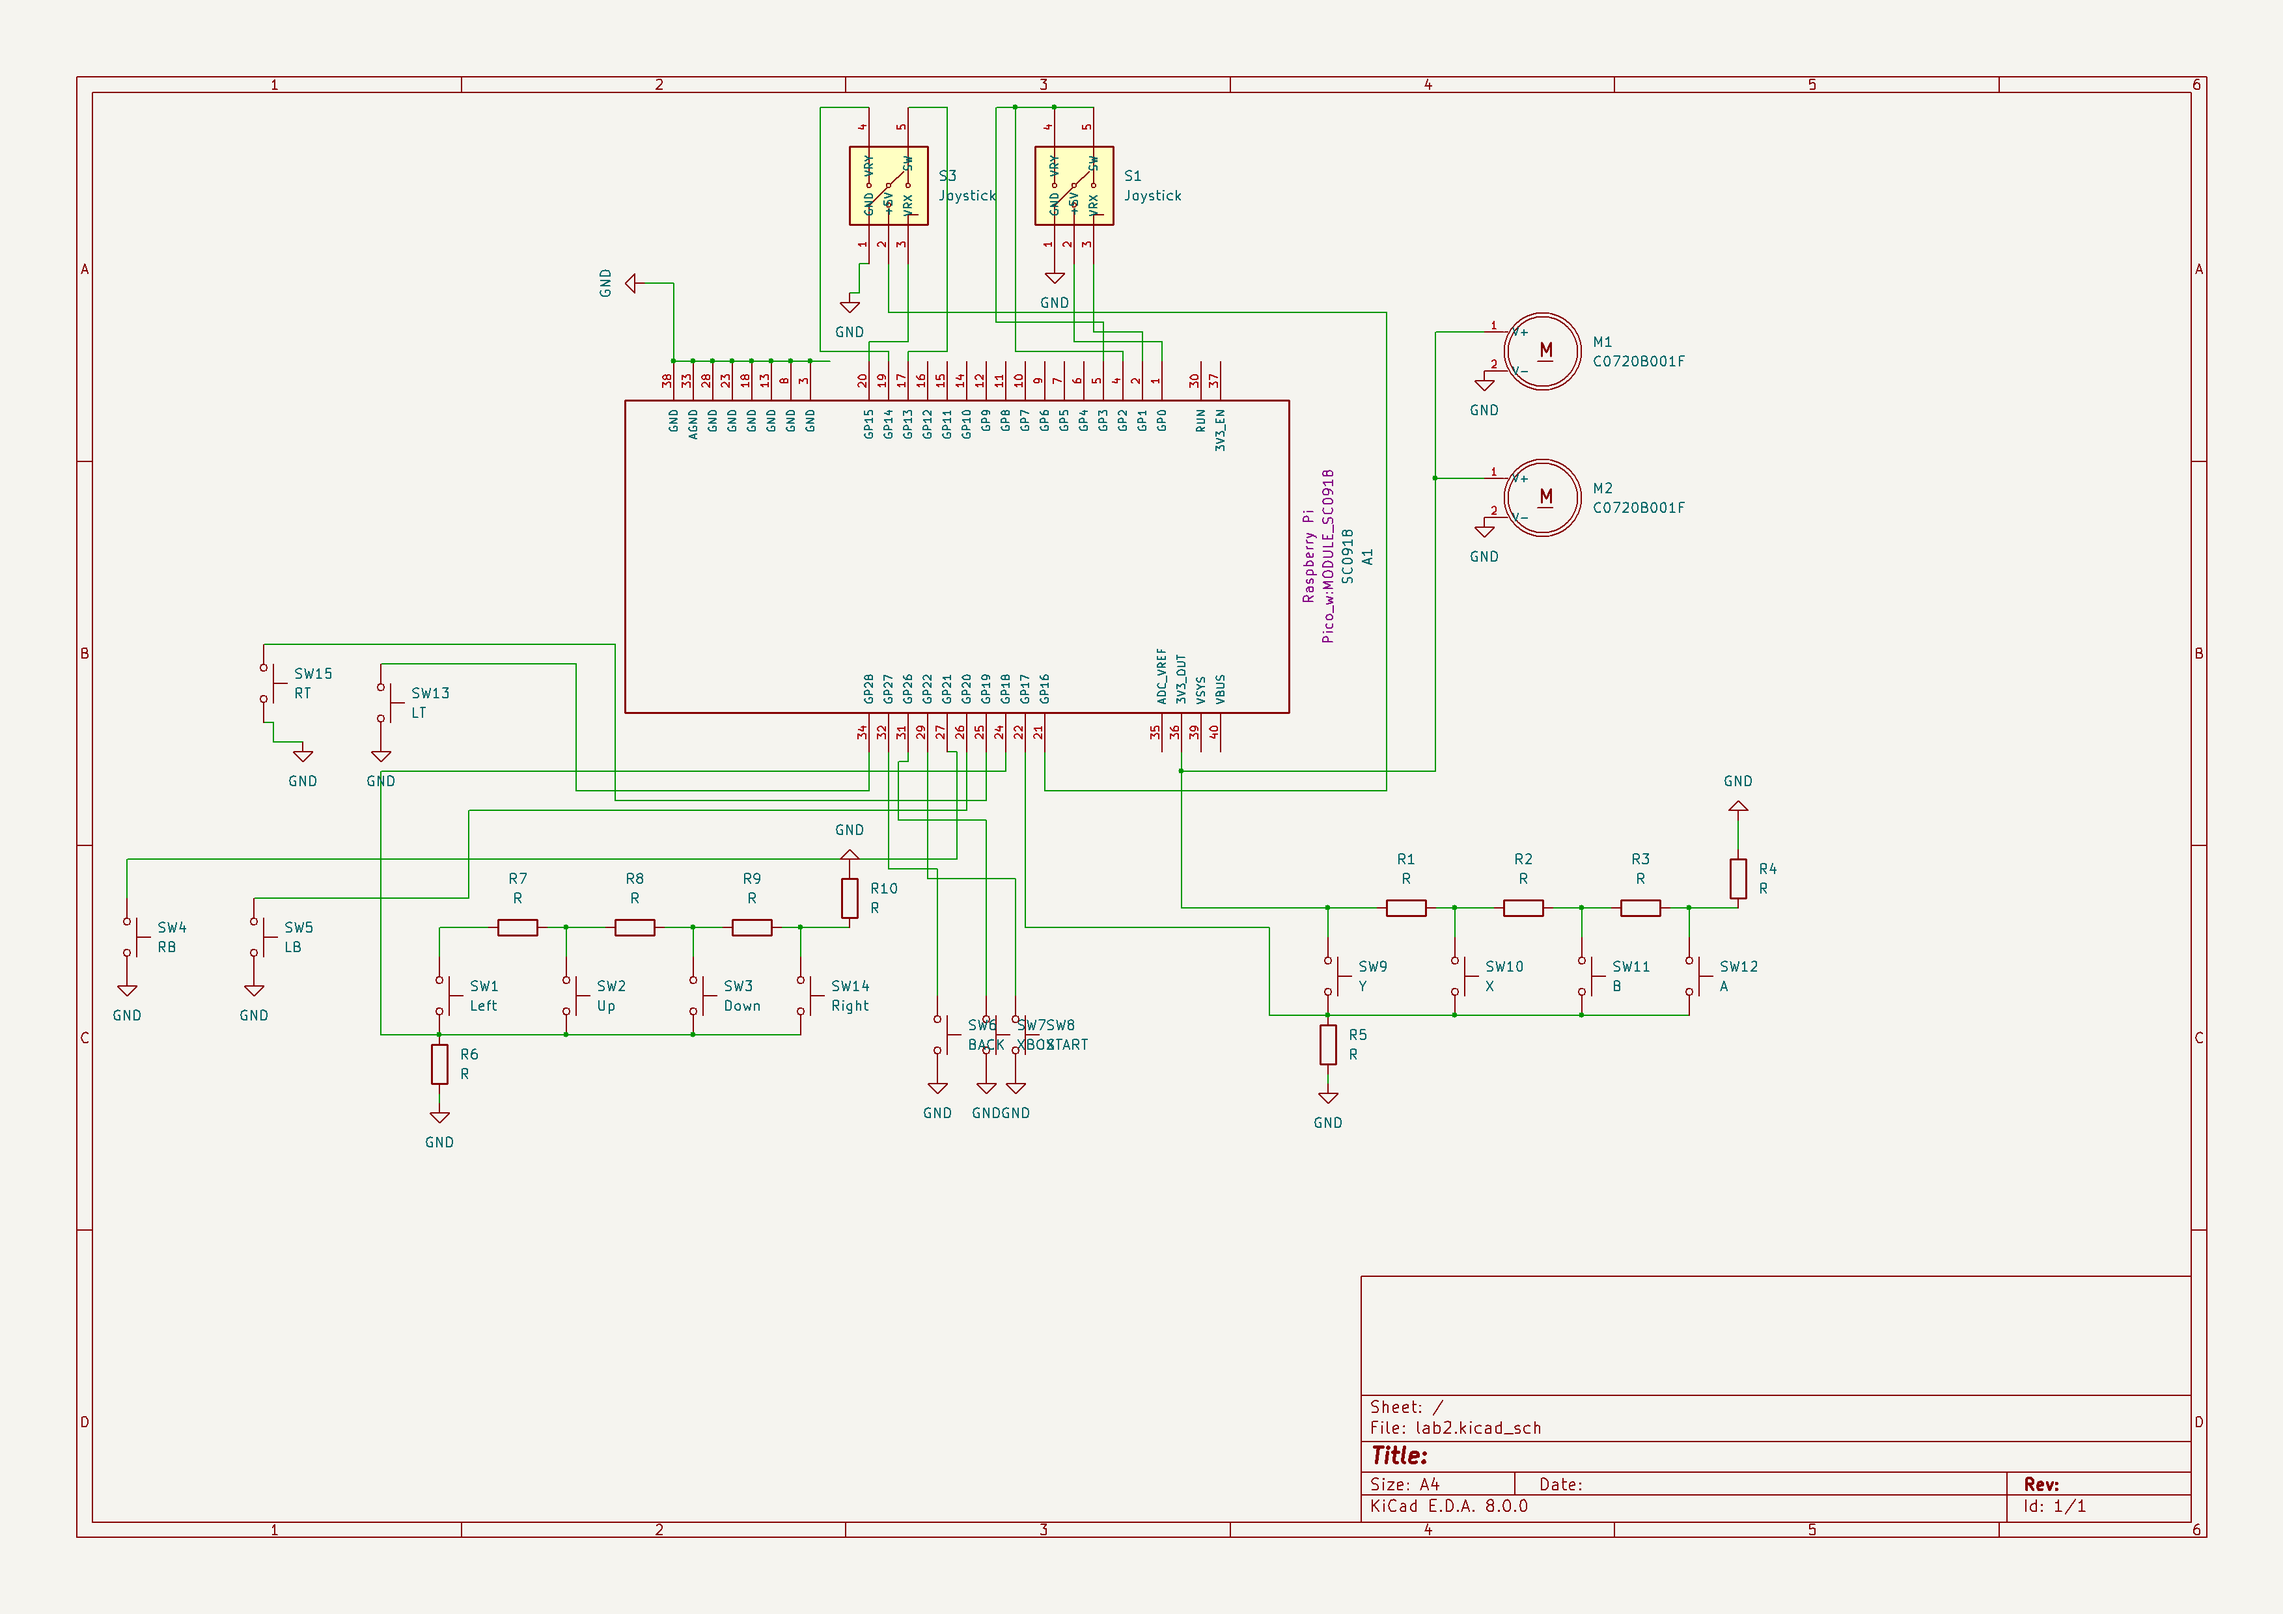
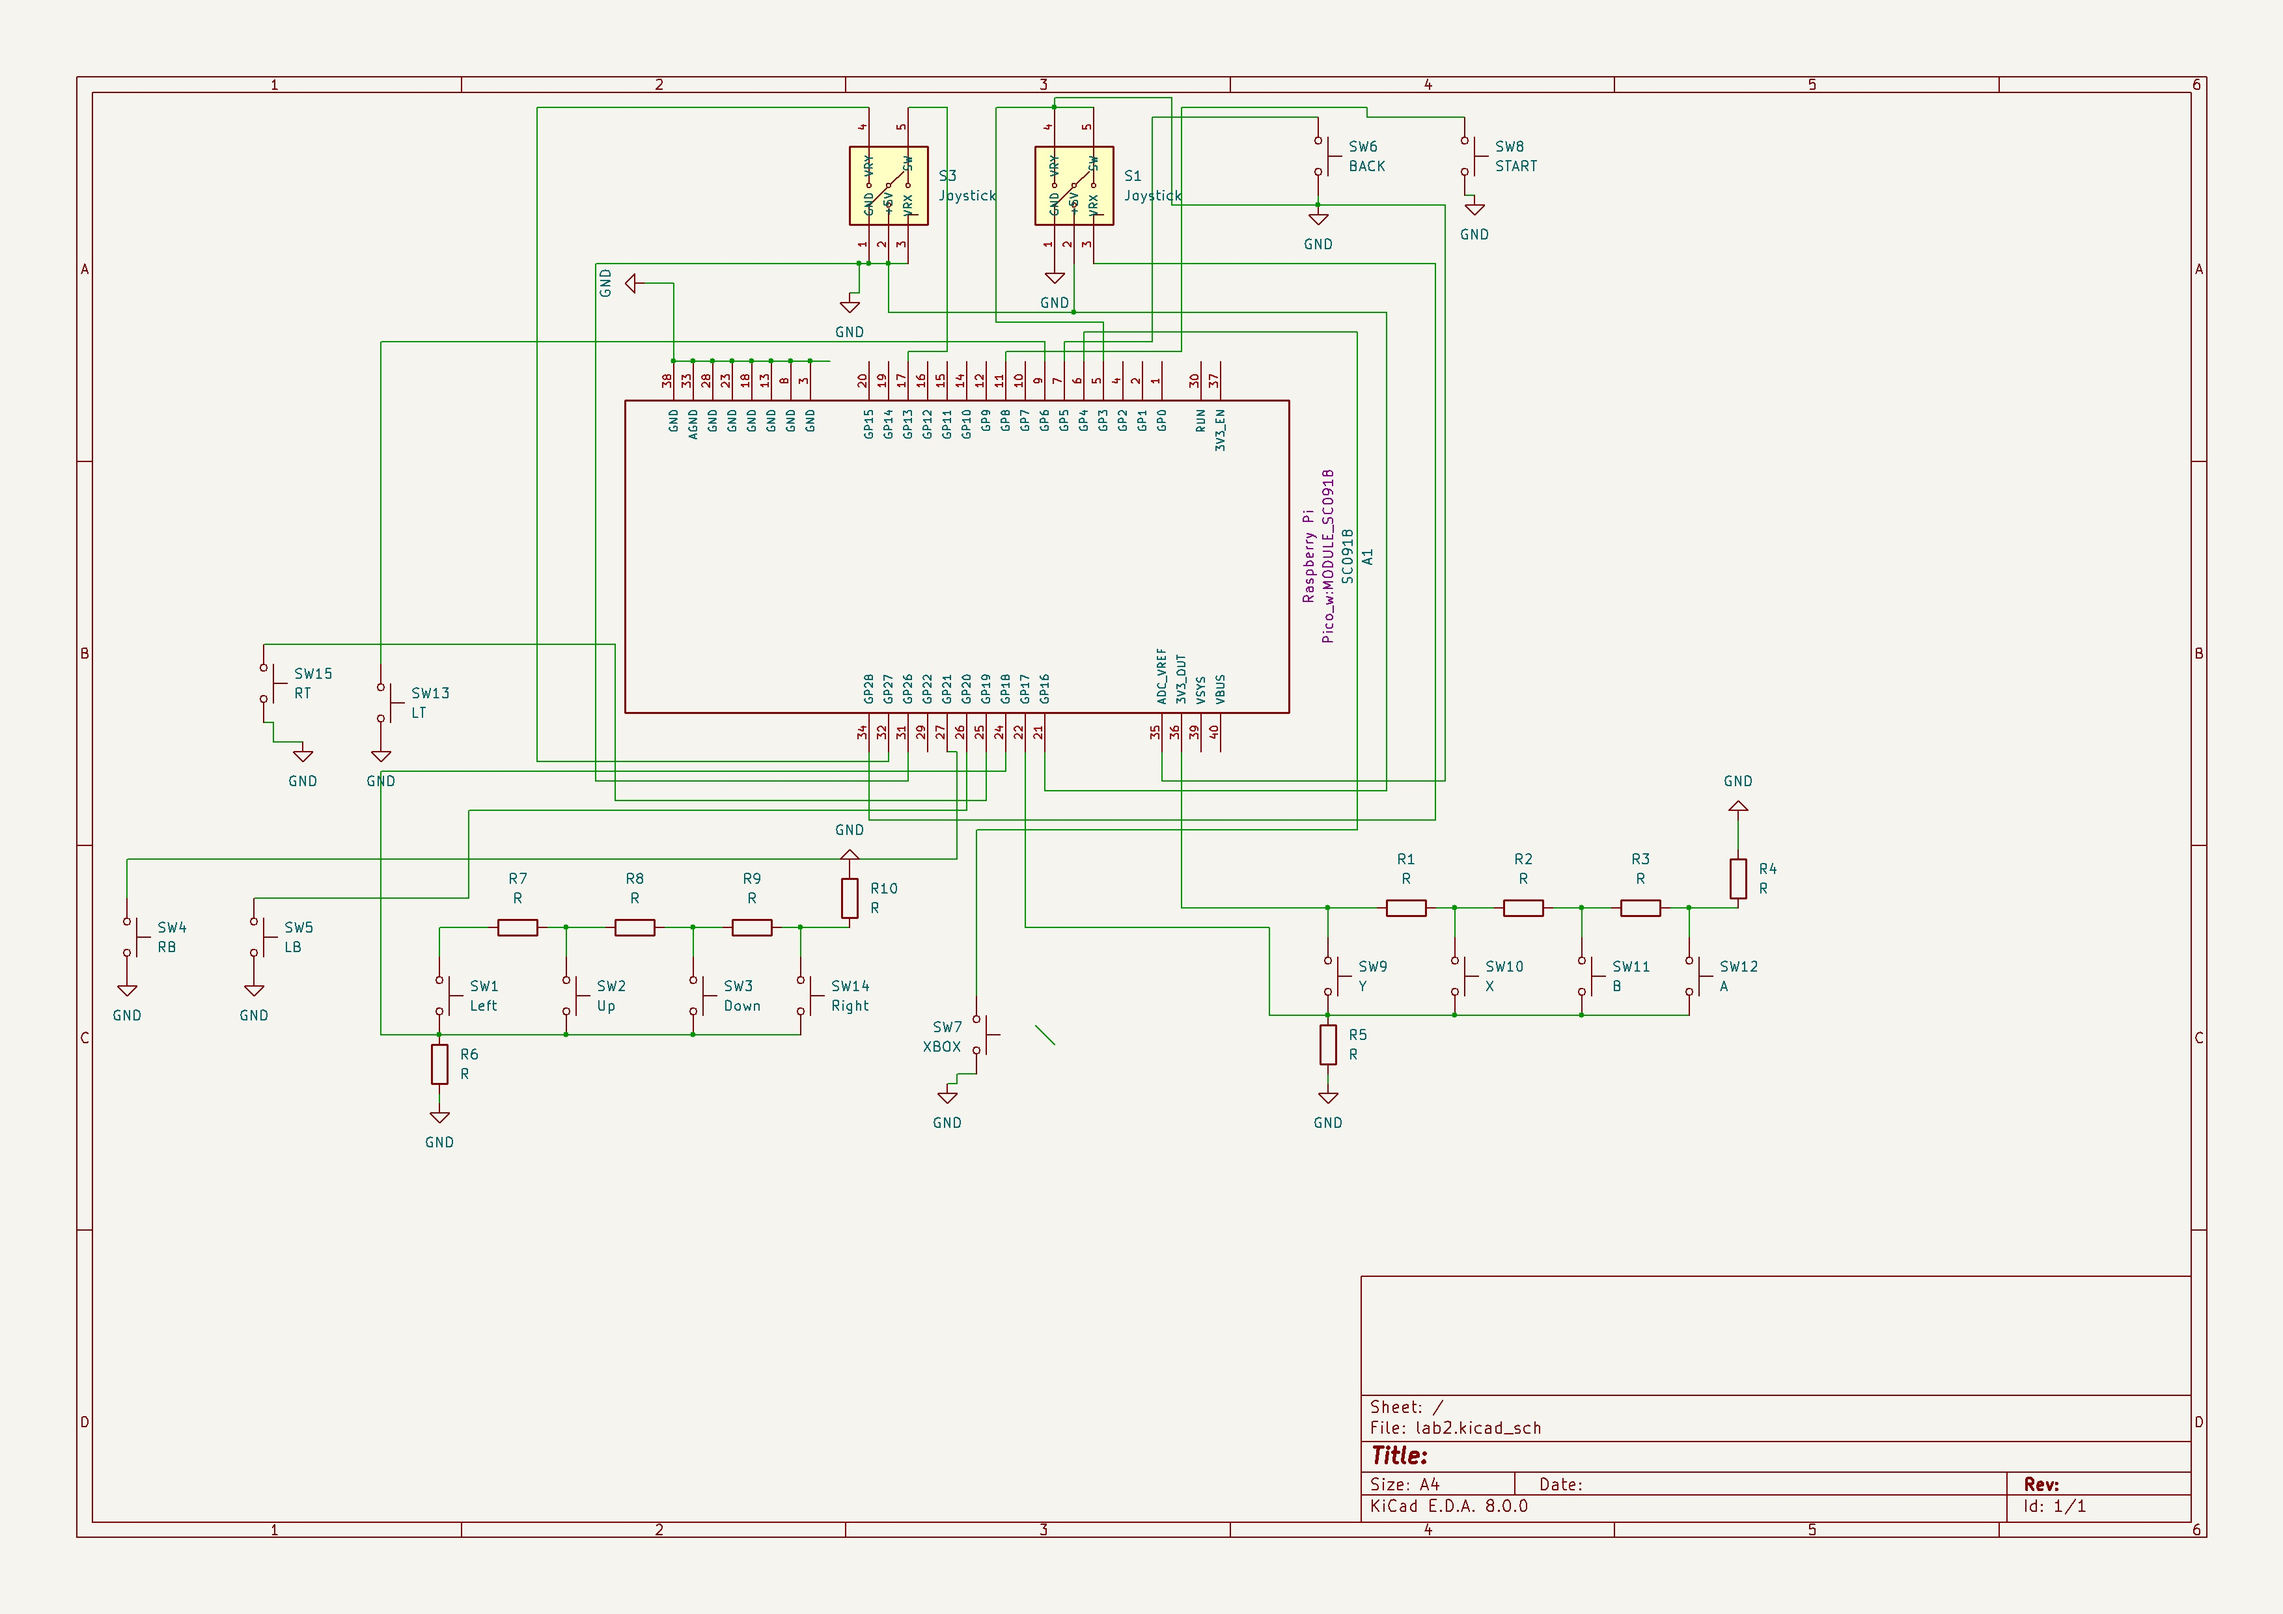
finishing touches + hardware update

diff --git a/docs/project/2024/andrei.dragota/index.md b/docs/project/2024/andrei.dragota/index.md
@@ -86,7 +86,7 @@ Designed the hardware on the breadboard, applied the voltage dividers to the cir
 ### Week 7 - 19 May
 Finished up the hardware on the breadboard + final version on KiCad. Should start with software now.
 ### Week 20 - 26 May
-TBD
+Software is finished. Windows detects the Pico W as a generic xbox 360 controller and responds to inputs. Code is in project repo.
 ## Hardware
 
 The controller has 16 buttons, 2 vibration motors, 2 joysticks, resistances of 220 ohms to not blow up the circuit. Pico will process all the inputs from the buttons and will translate it for the XInput app. 
@@ -132,7 +132,7 @@ The format is
 | Buttons ( 12-15 ) | Input for controller | [5 RON](https://www.optimusdigital.ro/ro/butoane-i-comutatoare/1119-buton-6x6x6.html?search_query=buton&results=222) |
 | Resistances | To not fry the circuit | [5 RON](https://www.optimusdigital.ro/ro/componente-electronice-rezistoare/858-rezistor-025w-18k.html?search_query=rezistor&results=120) |
 | 2x JoySticks | Move and aim with the controller | [10 RON](https://www.optimusdigital.ro/ro/senzori-senzori-de-atingere/742-modul-joystick-ps2-biaxial-negru-cu-5-pini.html?search_query=joystick&results=42) |
-| 2x Vibration Motors | Response from game using Windows API | [5 RON](https://www.optimusdigital.ro/ro/motoare-motoare-cu-vibratii/693-motor-cu-vibratii-a1027.html?gad_source=1&gclid=Cj0KCQjwir2xBhC_ARIsAMTXk87DxwQMGCCtCEbpkpSU_Mpx-jXCLmP0dDQwEzAGgiDgH0d1KsIc7isaAvvcEALw_wcB) |
+
 
 ## Software
 
@@ -141,7 +141,7 @@ The format is
 | [rusty_xinput](https://docs.rs/rusty-xinput/latest/rusty_xinput/#) | Crate for Rust | Implements Xinput .dll in Rust, has several functions |
 | [gilrs](https://docs.rs/gilrs/latest/gilrs/) | GilRs - Game Input Library for Rust | GilRs abstract platform specific APIs to provide unified interfaces for working with gamepads |
 | [Xinput](https://learn.microsoft.com/en-us/windows/win32/xinput/xinput-game-controller-apis-portal) | Bread and butter of this project (main driver) | Xinput, comes with Windows |
-| [embassy_rs](https://github.com/embassy-rs/embassy) | Embassy framework for embedded systems| Implement specifically USB module, ADC converter, I2C/SPi crates |
+| [embassy_rs](https://github.com/embassy-rs/embassy) | Embassy framework for embedded systems| Implement specifically USB module, ADC converter, UDP Wi-fi |
 ## Links
 
 <!-- Add a few links that inspired you and that you think you will use for your project -->
